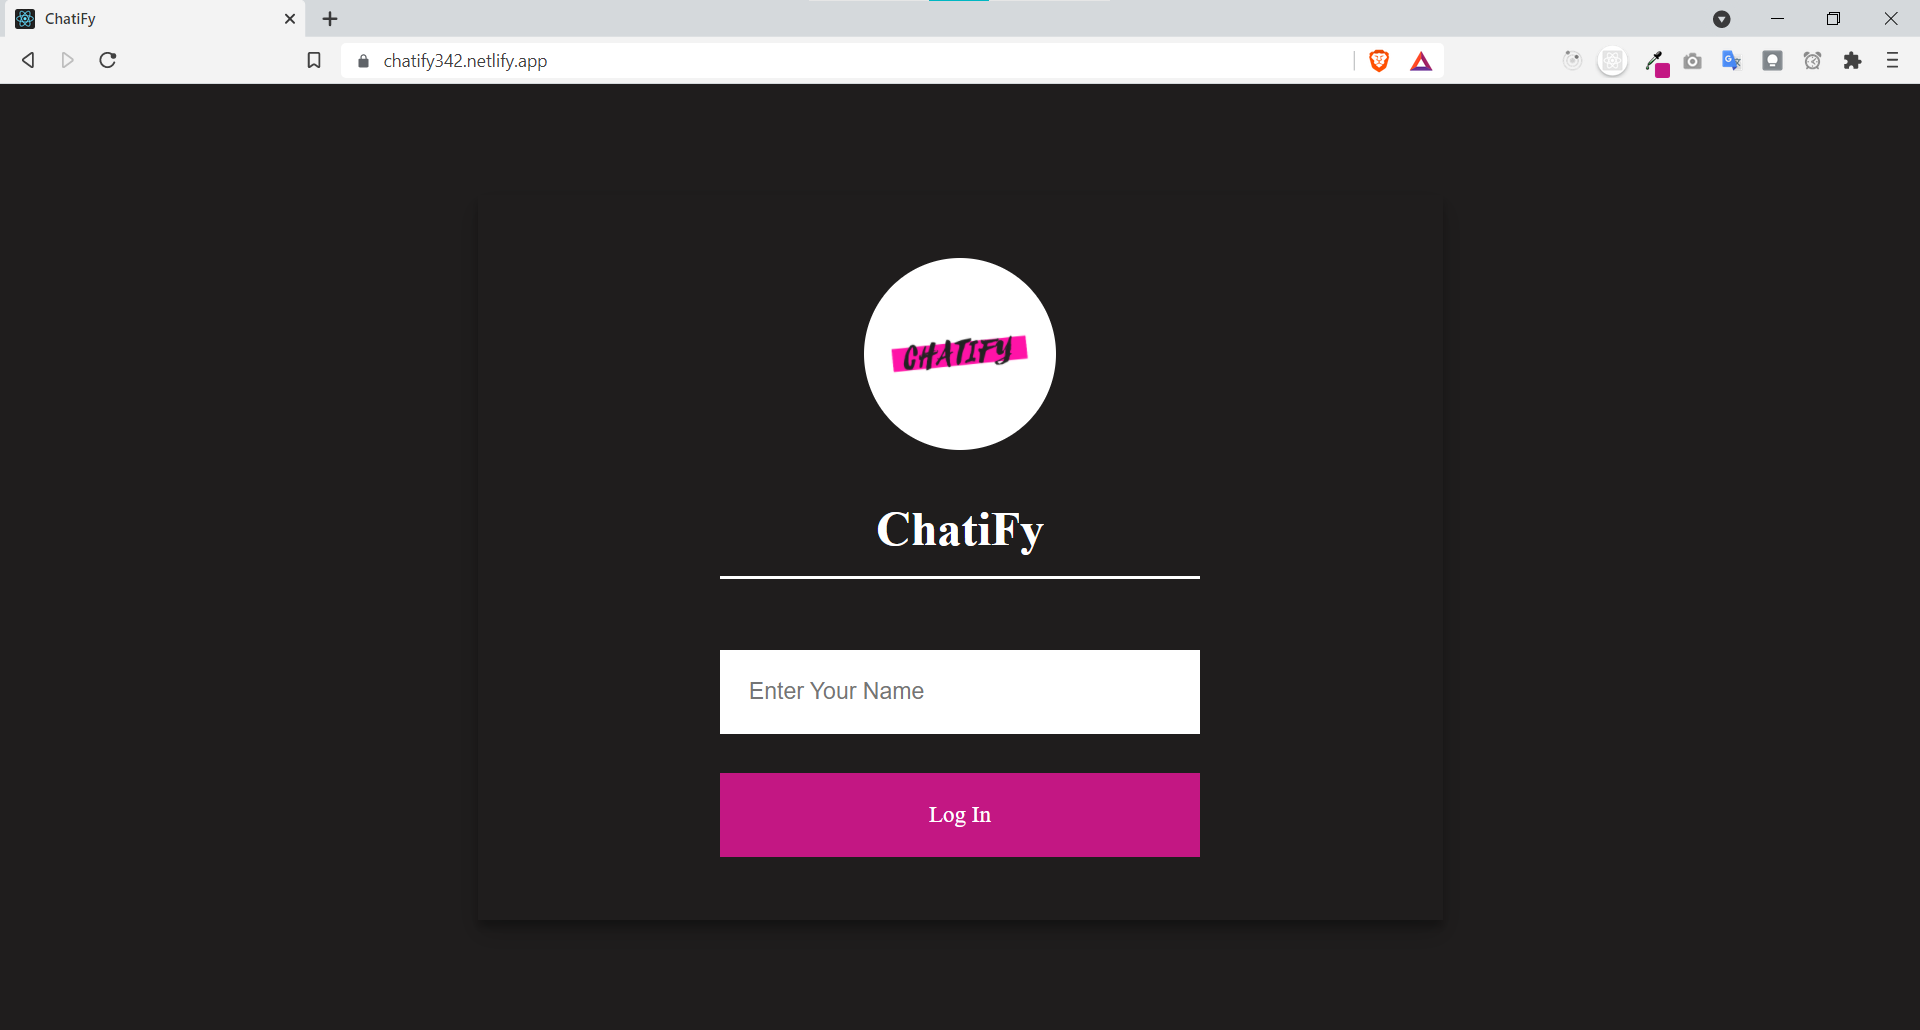
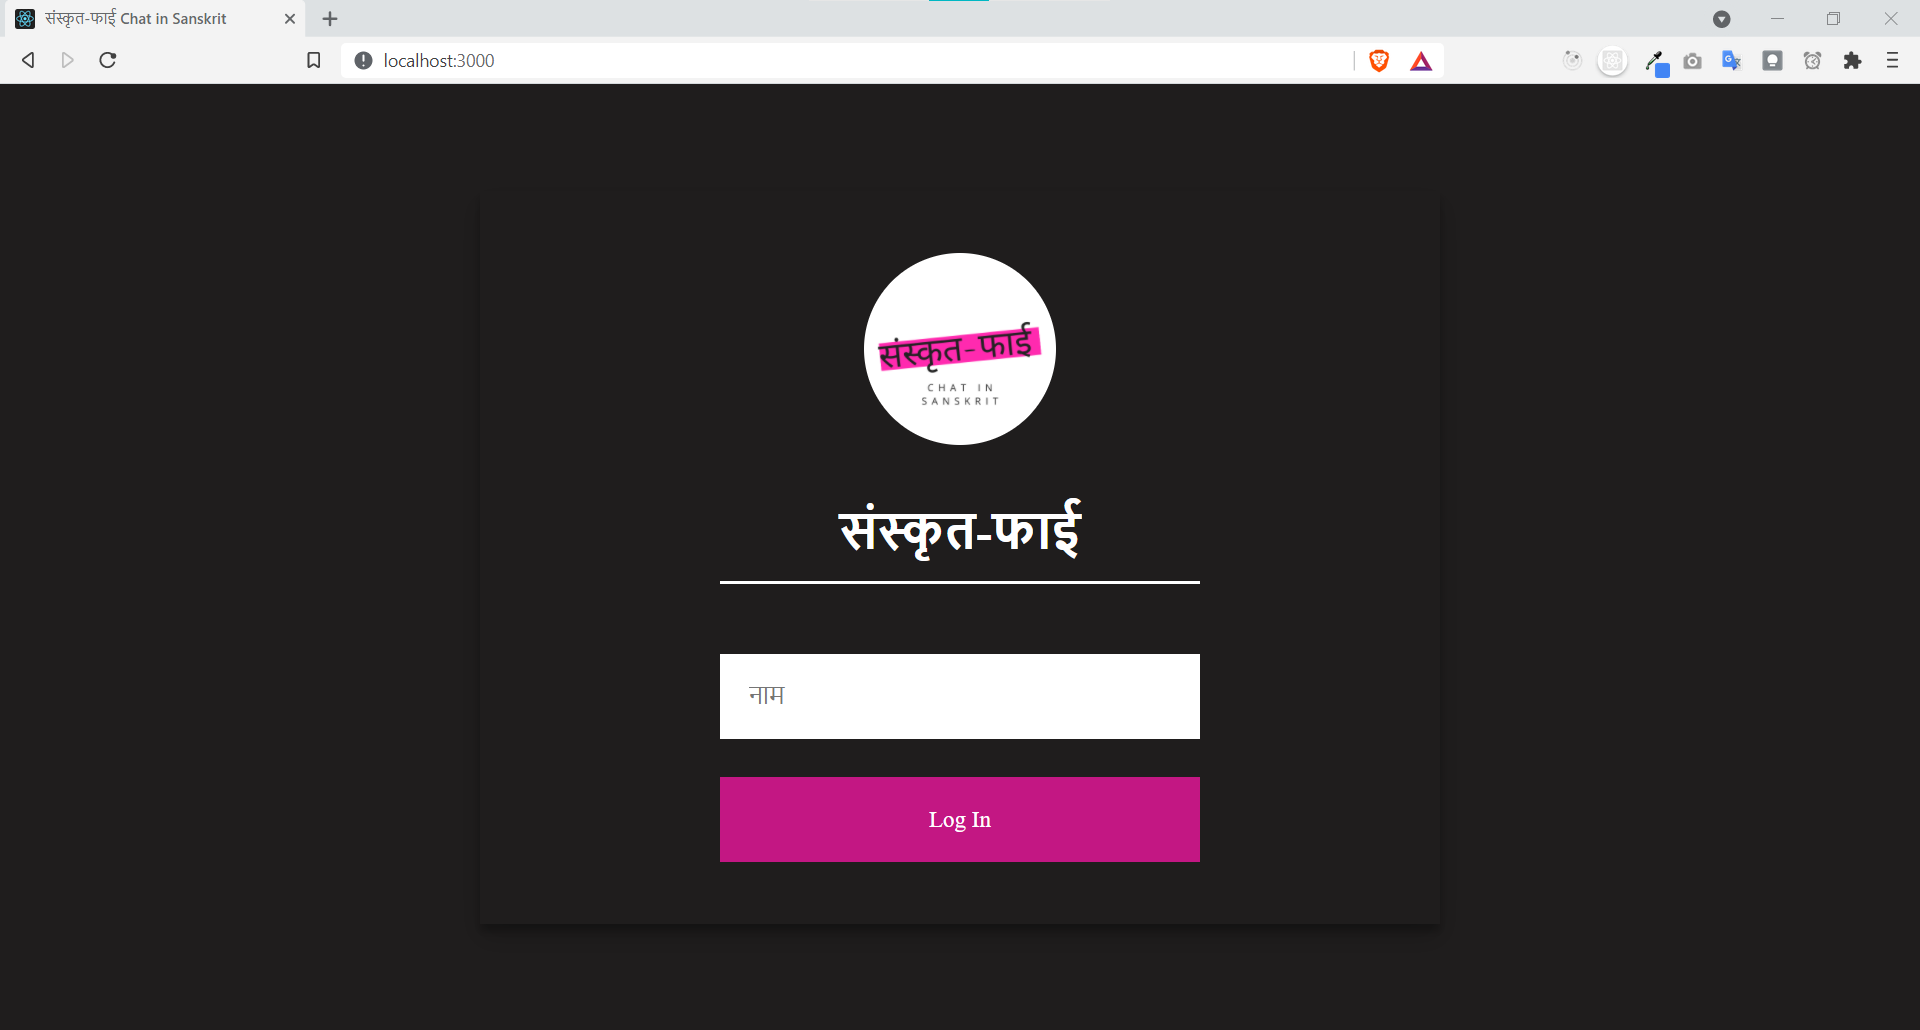
demo add 👨🎓

diff --git a/server/server.js b/server/server.js
@@ -32,7 +32,7 @@ io.on("connect", (socket) => {
 
       socket.emit("message", {
          user: "admin",
-         text: `${firstName}, welcome to SansMeet. If you are using mobile please open Hindi keyboard.`,
+         text: `${firstName}, welcome to Sanskrit-Fy.`,
       });
       socket.broadcast
          .to(user.room)
